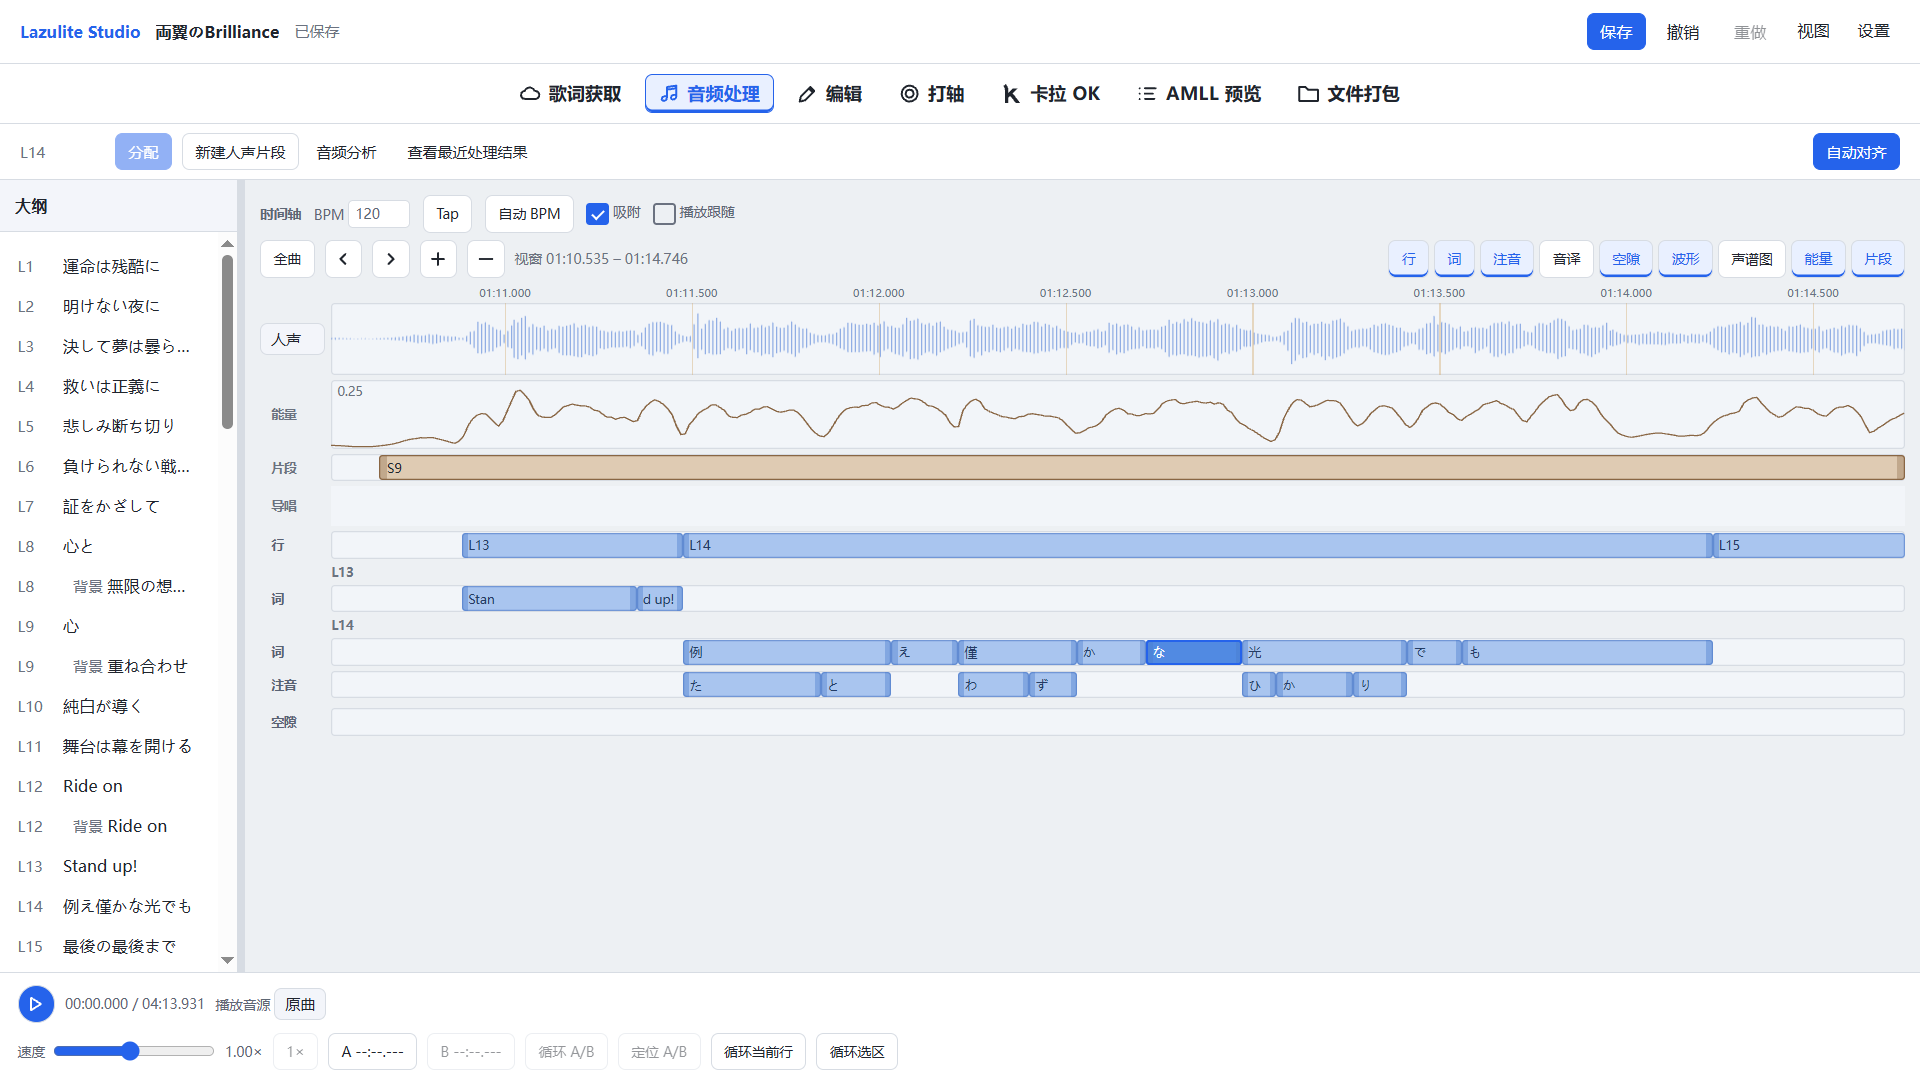
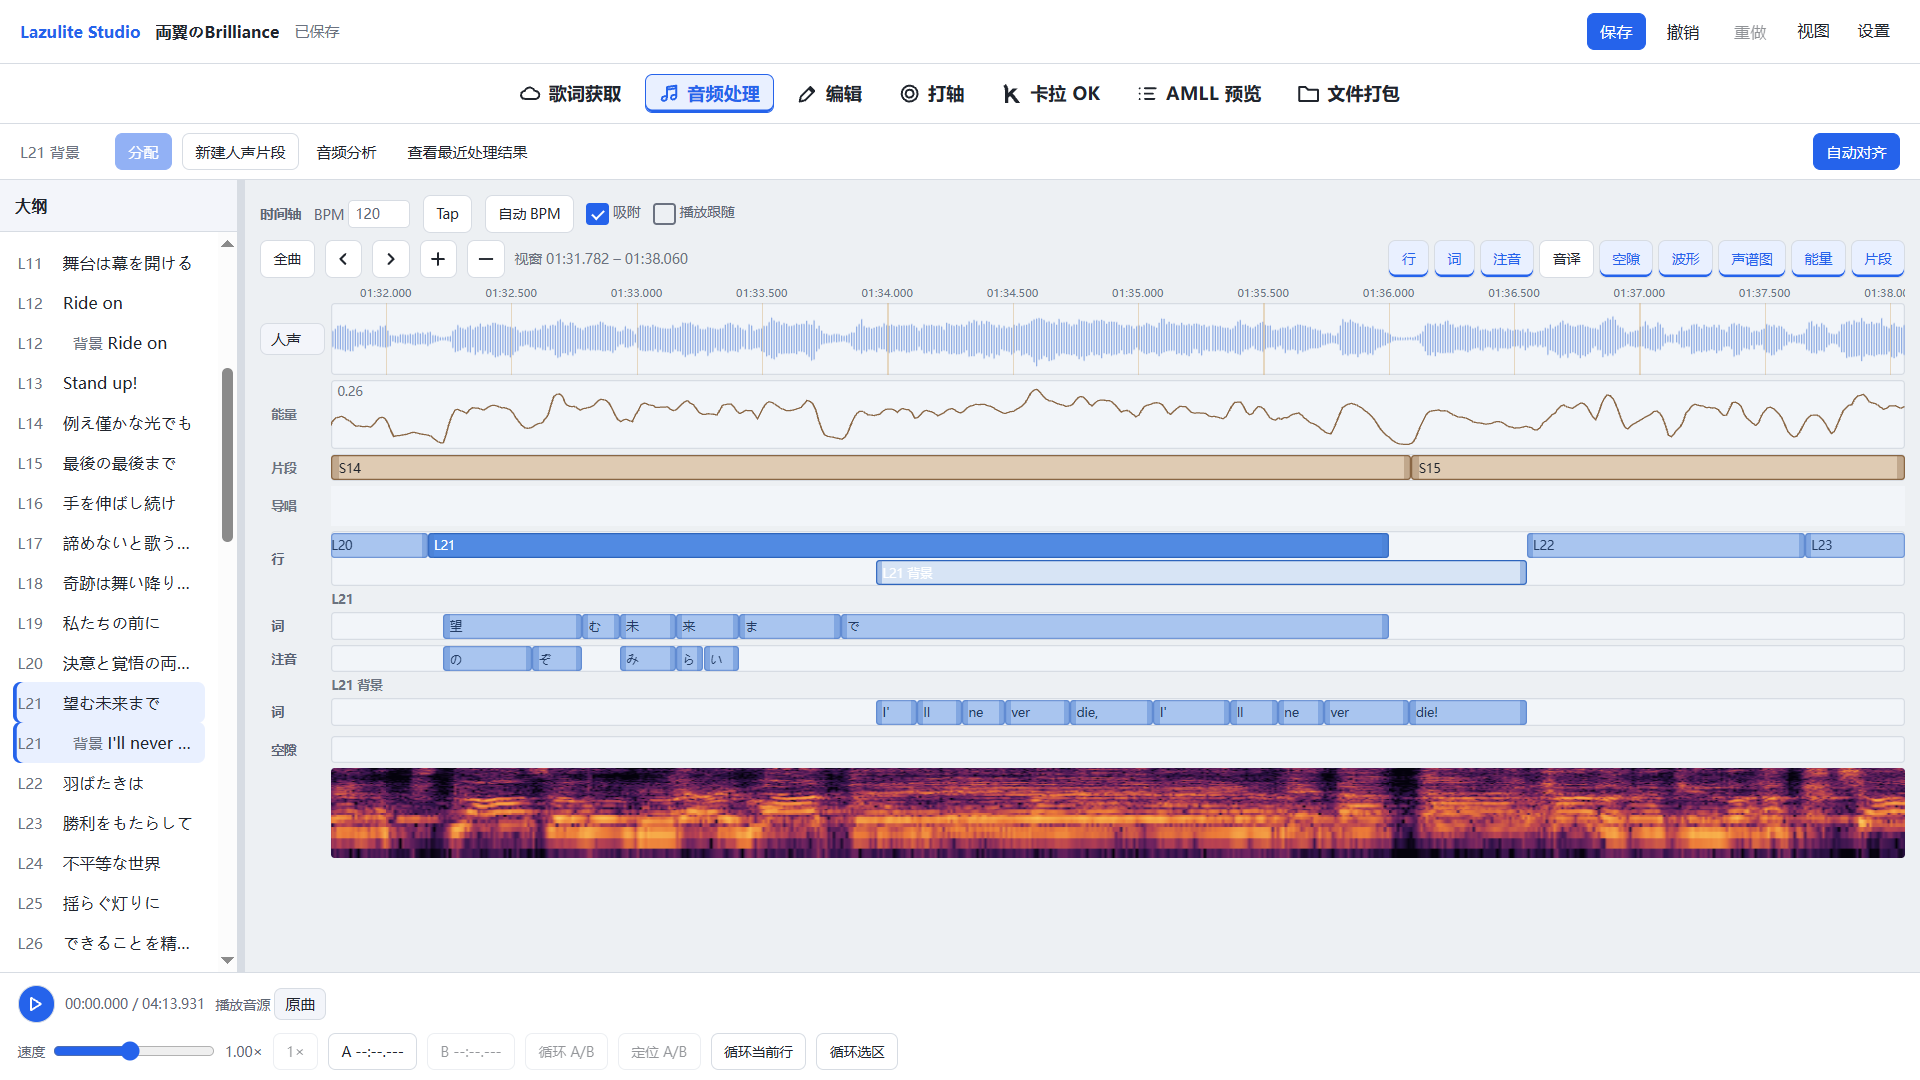
更新README和截图

diff --git a/README.md b/README.md
@@ -12,17 +12,17 @@
 本项目受 [Apple Music-like Lyrics TTML Tool](https://github.com/amll-dev/amll-ttml-tool) 、[StrangeUtaGame](https://github.com/karaoke-studio/StrangeUtaGame) 、[MiliKara](https://github.com/BilyHurington/MiliKara) 的启发，旨在提供一个 [AMLL TTML Tool](https://github.com/amll-dev/amll-ttml-tool) 编辑能力的超集、以及主要针对日语歌词的自动化注音、对齐工具。
 
 ## 为什么使用TTML
-Lazulite Studio 使用 [TTML2](https://www.w3.org/TR/ttml2/) 格式作为内部歌词格式与主要交换格式，这是由于TTML2提供了一个标准且可扩展的歌词字幕模型，能够承载远超原始 LRC 和各类基于 LRC 的扩展格式的数据和结构，包括但不限于：
+Lazulite Studio 使用 [TTML2](https://www.w3.org/TR/ttml2/) 格式作为内部歌词格式与主要交换格式，这是由于 TTML2 提供了一个标准且可扩展的歌词字幕模型，能够承载远超原始 LRC 和各类基于 LRC 的扩展格式的数据和结构，包括但不限于：
 - 完善的注音（Ruby）结构支持
 - 完整的行级、词级、注音（Ruby）级时间
 - 稳定的行级 ID，原生能够表达引用、从属等结构
 - 背景行指定以及从属主行结构
 - 重叠主行、重叠的多个背景（原生支持叠唱、重唱）
-- 无上限的、可分别指定语言（BCP 47标准）的独立翻译和音译轨道，支持与正文的从属关系和与正文独立的行级和词级时间
+- 无上限的、可分别指定语言（建议使用 BCP 47 标准）的独立翻译和音译轨道，支持与正文的从属关系和与正文独立的行级和词级时间
 - 原生的演唱者字段，使用稳定的 ID 管理引用
 - 精细到词级的演唱者指定
 
-还有一些 Lazulite Studio 暂不提供编辑能力，但TTML能够原生承载的数据，为下游的各类工具提供了极大的扩展性：
+还有一些 Lazulite Studio 暂不提供编辑能力，但 TTML 能够原生承载的数据，为下游的各类工具提供了极大的扩展性：
 - 演唱者字段能够表达虚拟角色与其声优的扮演关系并区分两者
 - 颜色、位置、动画等字幕样式
 - 更丰富的注音（Ruby）容器与布局，如同时在上下显示注音（Ruby）
@@ -58,7 +58,7 @@ Lazulite Studio 尽量产出兼容 AMLL 生态的 TTML 歌词，然而，由于 
 - Mac 版：`LazuliteStudio-macos-arm64.7z`
 
 使用支持 7z 的解压工具完整解压后打开其中的文件夹，双击启动入口运行。不要直接在压缩包内运行。
-分卷包需下载全部 .7z.001、.7z.002 等文件，放在同一目录，从 .7z.001 开始解压；不要逐卷解压。
+分卷包需下载全部 `.7z.001`、`.7z.002` 等文件，放在同一目录，从 `.7z.001` 开始解压；不要逐卷解压。
 - Windows 启动入口：`start.exe`。
 - macOS 启动脚本：`start.command`。
 
@@ -90,7 +90,13 @@ Lazulite Studio 尽量产出兼容 AMLL 生态的 TTML 歌词，然而，由于 
 - pnpm 10.30.3：与 `frontend/package.json` 的 `packageManager` 一致。可用 Corepack 执行 `corepack pnpm@10.30.3` 代替下列 `pnpm`。
 - FFmpeg 和 FFprobe：可从服务进程的 PATH 调用，负责媒体探测、解码及打包校验。
 
-以下命令从 LazuliteStudio 仓库根目录运行。基础服务从固定的 `vendor/Lazulite` Git 子模块构建安装。首次克隆使用 `git clone --recurse-submodules`；已有检出先运行 `git submodule update --init --recursive`。
+### 克隆仓库
+
+仓库内包含 [Lazulite](https://github.com/wuchenyanmo/Lazulite) 子模块。
+```sh
+git clone --recurse-submodules
+```
+后续命令从仓库根目录运行。
 
 ### 安装基础依赖
 
@@ -114,7 +120,7 @@ pnpm --dir frontend install --frozen-lockfile
 
 虚拟环境创建用的 Python 须满足上述版本。PowerShell 若限制激活脚本，可直接用 `./server/.venv/Scripts/python.exe` 替代 `python` 执行后续命令。
 
-基础依赖包含 API、歌词获取、日文读音及媒体处理所需的 Python 库。JmdictFurigana 数据随仓库交付，服务读取固定资源。人声分离和自动对齐使用下文可选运行时。
+基础依赖包含 API、歌词获取、日文读音及媒体处理所需的 Python 库，Lazulite 基础服务从固定的 `vendor/Lazulite` Git 子模块构建安装。JmdictFurigana 数据随仓库交付，服务读取固定资源。人声分离和自动对齐使用下文可选运行时。
 
 ### 开发运行
 
@@ -144,7 +150,7 @@ pnpm --dir frontend dev
 
 浏览器访问 `http://127.0.0.1:5173`，输入配置的密码。Vite 将 `/api` 代理至 `http://127.0.0.1:8000`。API 端口变化时，在启动前端的终端设置 `STUDIO_API_TARGET`，例如 `http://127.0.0.1:8100`。浏览器地址变化时，修改 API 终端的 `STUDIO_ORIGIN` 并重启服务。
 
-`STUDIO_ORIGIN` 为一个完整 HTTP(S) 来源，由协议、主机和可选端口构成；例如 `http://127.0.0.1:15173`。SSH 转发时填写浏览器实际访问的来源。`localhost` 与 `127.0.0.1` 是不同来源。
+`STUDIO_ORIGIN` 为一个完整 HTTP(S) 来源，由协议、主机和可选端口构成；例如 `http://127.0.0.1:15173`。SSH 转发时需要填写浏览器实际访问的来源。`localhost` 与 `127.0.0.1` 是不同来源。
 
 仅调试前端界面可运行 `pnpm --dir frontend dev:mock`，它在开发环境启动 MSW 模拟 API。
 
@@ -183,7 +189,7 @@ Web 服务器需要以下配置：
 python -m pip install -r server/requirements-vocal.txt
 ```
 
-配置 `STUDIO_VOCAL_MODEL`（默认 `htdemucs`）和 `STUDIO_VOCAL_DEVICE`（默认 `cpu`）。Demucs 使用 Torch 模型缓存，首次获取权重需要网络；`TORCH_HOME` 可配置缓存目录。
+需要配置 `STUDIO_VOCAL_MODEL`（默认 `htdemucs`）和 `STUDIO_VOCAL_DEVICE`（默认 `cpu`）环境变量。Demucs 使用 Torch 模型缓存，首次获取权重需要网络；`TORCH_HOME` 可配置缓存目录。
 
 自动对齐：
 
@@ -191,35 +197,6 @@ python -m pip install -r server/requirements-vocal.txt
 python -m pip install -r server/requirements-alignment.txt
 ```
 
-该文件包含人声依赖并引用 `constraints-alignment.txt` 的 Linux CUDA 设备栈约束。Windows/macOS 的 Torch／torchaudio 安装需选用相容的平台构建；此处是当前仓库安装入口，目标平台完整依赖组合仍需发布验证，不能据 Linux 环境断言安装通过。
+该文件包含人声依赖并引用 `constraints-alignment.txt` 的 Linux CUDA 设备栈约束。Windows/macOS 的 Torch／torchaudio 安装需选用相容的平台构建。
 
-准备本地 C2C 对齐模型目录，包含 `config.json`、`processor_config.json`、`vocab.json`、`model.safetensors` 等模型资源，设置 `STUDIO_NEXTFIRE_PATH` 为目录绝对路径。`STUDIO_ALIGNMENT_DEVICE` 使用 `cpu` 或 `cuda`，默认 `cpu`；自动对齐首次准备人声使用 `htdemucs` 和 `STUDIO_VOCAL_DEVICE`。设置页显示当前能力和缺失原因。
-
-## 便携入口与原生依赖准备
-
-完整目录布局为 `app/`、`runtime/python/`、`runtime/ffmpeg/`、`models/`、`manifest.json`；运行后创建 `data/` 和 `logs/`。启动模板在 `packaging/launchers`，生产入口为 `server.portable`。源代码仓库本身不是已组装的便携包。
-
-原生构建机使用 CPython 3.12，按平台运行 `python packaging/resolve.py --target windows-x64-cpu|windows-x64-cuda|macos-arm64 --output <空目录>`（target 选择其中一项）。此入口生成本次解析的版本清单与 wheelhouse；只在最终随包解释器中安装和检查一次。外部固定下载保留来源摘要验证，本地产生的 wheel 不再自算摘要后反复验证。固定来源在 `packaging/runtime-manifest.json` 和 `packaging/models.json`。
-
-在对应 Windows x64／Mac arm64 构建机，使用构建 Python 3.12.10 及清单指定版本的 Node 和 pnpm，运行：
-
-```sh
-python -m pip install pefile==2024.8.26
-python packaging/build.py --target windows-x64-cpu --output /path/outside/repo/portable
-```
-
-构建解释器固定为 `build_python_version`（3.12.10，来自 setup-python 支持矩阵）；随包解释器独立固定为 `python_version`（PBS 3.12.15）。两者共用 CPython 3.12 ABI，随包解释器仍须独立执行安装和冒烟检查。
-
-`target` 可选 `windows-x64-cpu`、`windows-x64-cuda`、`macos-arm64`；输出必须为仓库外的空目录，输入检出必须干净。构建入口解析依赖、构建前端、组装独立运行时和本地模型，执行一次 `pip check`、原生架构／动态依赖审计、核心模块／词典／媒体及真实启动退出冒烟，然后清理冒烟生成的数据并压缩。不在打包时运行模型推理、服务安全回归或辅助测试集，不重新解包、不扫描全目录哈希。`artifacts/` 包含 7z 包，按 1900 MiB 分卷；只有一卷时命名 `.7z`，多卷为 `.7z.001`、`.7z.002` 等。所有分卷放在同一目录，从 `.001` 整体解压，不能分别解压。LZMA2 使用 64 MiB 字典和 256 MiB 固实块；构建工具由 `packaging/setup_7zip.py` 固定到官方 7-Zip 26.04。Actions 逐文件原样上传，不添加外层 ZIP。
-
-顶层目录 `LazuliteStudio-<target>` 不含提交哈希；Windows 入口为原生 `start.exe`（构建时使用 MSVC，静态链接运行库），Mac 为 `start.command`。Windows 入口不运行批处理，Ctrl+C／Ctrl+Break 交给 Python 服务处理，等待任务清理并正常退出，不显示批处理 Y/N 提示；旧控制台快速编辑模式在运行期间关闭，退出后恢复。Windows Job Object 负责入口异常结束时的子进程回收。正常关闭信号不由 Uvicorn 再次抛出，重复信号不会跳过清理。构建冒烟只启动一次，通过独立控制台发送 Ctrl+C，并检查正常退出。
-
-包内 `USAGE.txt` 从 `packaging/USAGE.txt` 原样复制。用户包不包含 `files.json` 或 `SHA256SUMS`；诊断只记录版本、实际检查项、产物名称和大小，不生成全文件或归档摘要。下载来源摘要由下载层一次验证；Actions／Release 的传输摘要由 GitHub 提供。构建失败会清除未完成的压缩产物。
-
-GitHub Actions 的 **Build portable previews** 支持手动选择一个目标或全部目标，也作为 Release 的复用构建入口。**Prepare release draft** 仅手动启动，输入新版本号或已有标签；已有 Git 标签使用标签提交，新标签使用启动 Action 时所选分支的提交。三平台全部构建完成后，创建或复用该版本的 Release 草稿、上传 7z 附件，并保持草稿状态，由用户在 GitHub 手动发布。复用草稿保留人工标题和说明，替换本工具管理的旧安装包；其他附件保留。失败可重新运行，无需删除草稿；已公开的 Release 不覆盖。诊断工件不作为 Release 附件，不重新解包或执行测试。模型或依赖升级需要专项行为验证时，可单独运行 `packaging/model_smoke.py`，不作为每次打包步骤。
-
-固定 Lazulite gitlink 已在公开远端可取得，普通递归检出即可构建。
-
-Windows 依赖输入固定了 `msvc-runtime` wheel 的版本与 SHA256，随包提供 VC++ 运行库及许可，嵌套原生工具旁也部署同一组 DLL；不依赖构建机预装的 VC++ 运行库。macOS 审计区分动态库自身的 `LC_ID_DYLIB` 与加载依赖，检查普通、弱链接、重导出、延迟和向上加载依赖。原生审计汇总缺失项，这些检查避免依赖构建机预装库；运行冒烟在压缩前的完整目录执行一次。
-
-开发测试另安装 `python -m pip install -r server/requirements-dev.txt`；pytest／build 不属于发布运行依赖。
+准备本地 C2C 对齐模型目录，包含 `config.json`、`processor_config.json`、`vocab.json`、`model.safetensors` 等模型资源，然后设置环境变量 `STUDIO_NEXTFIRE_PATH` 为目录绝对路径。环境变量 `STUDIO_ALIGNMENT_DEVICE` 使用 `cpu` 或 `cuda`，默认 `cpu`；自动对齐首次准备人声使用 `htdemucs` 和 `STUDIO_VOCAL_DEVICE`。设置页显示当前能力和缺失原因。
